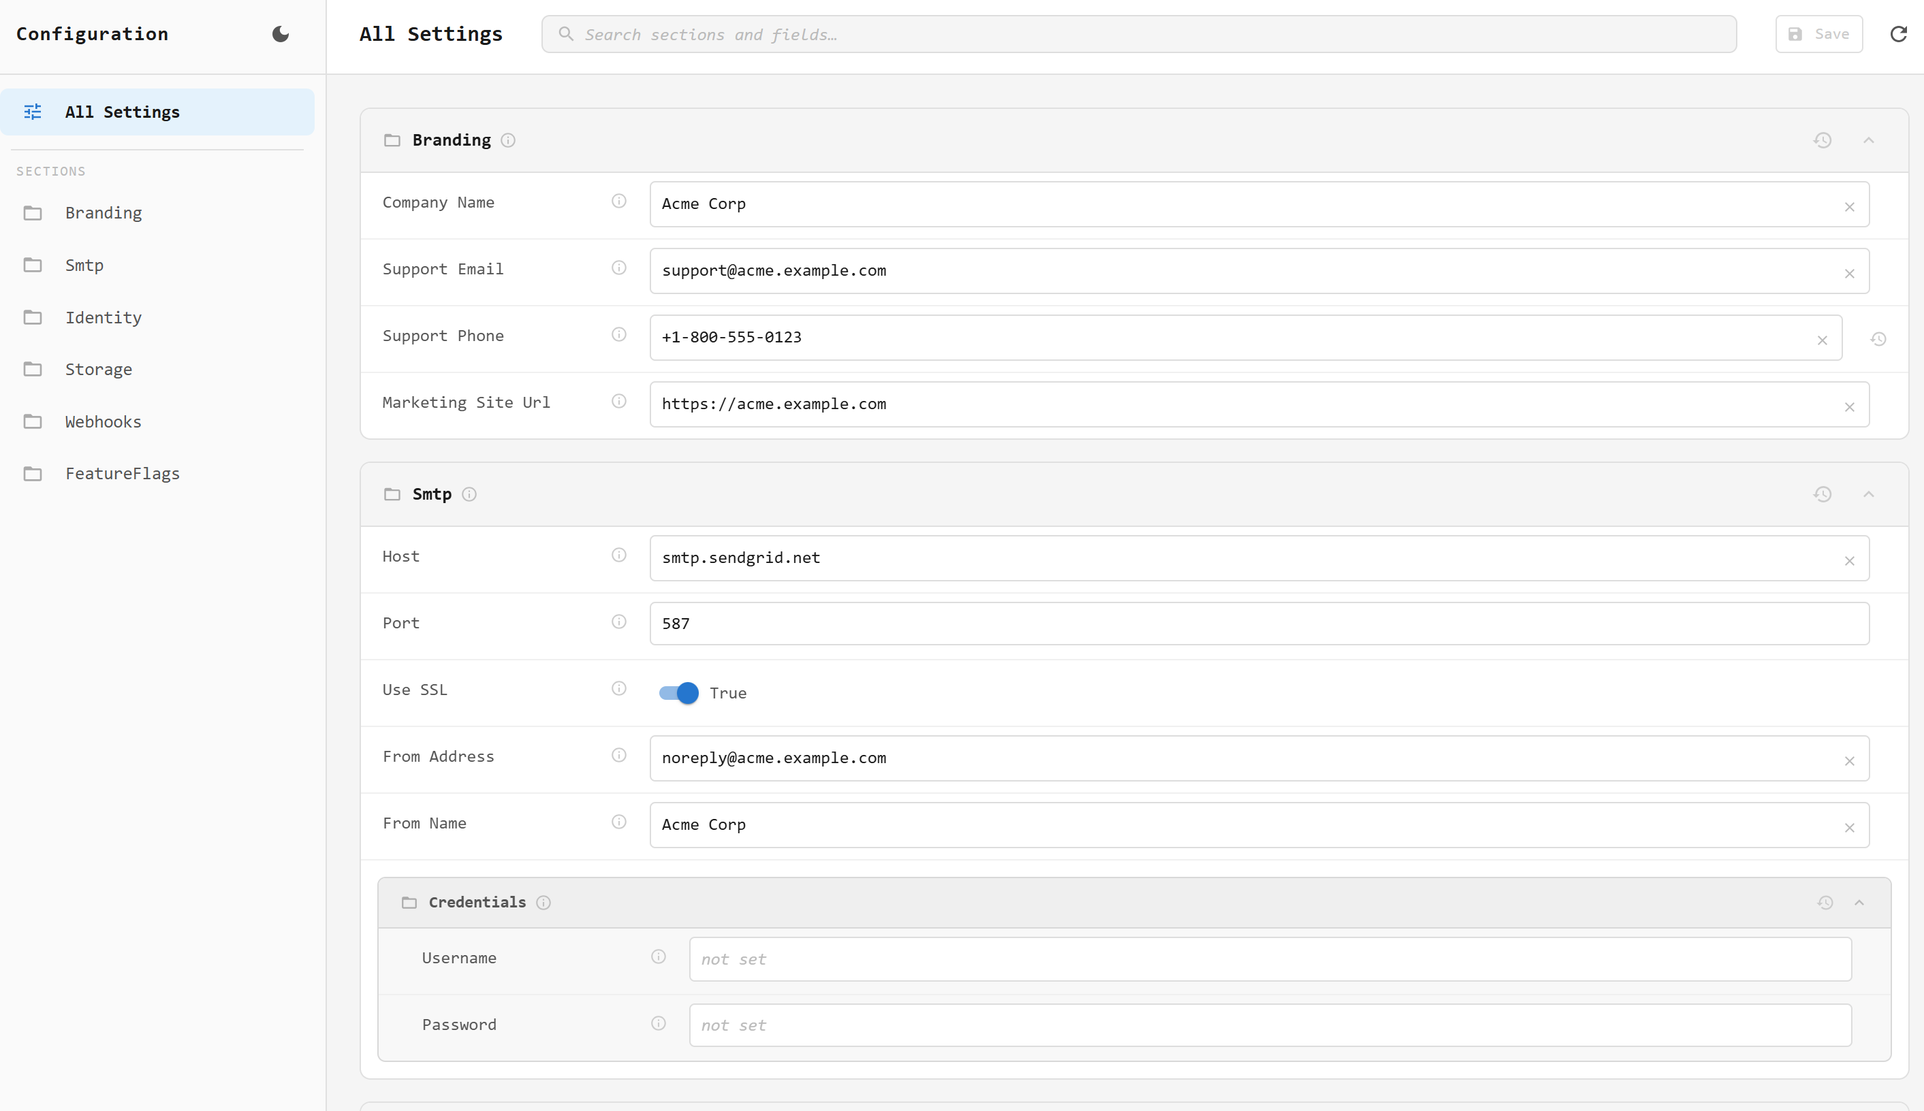
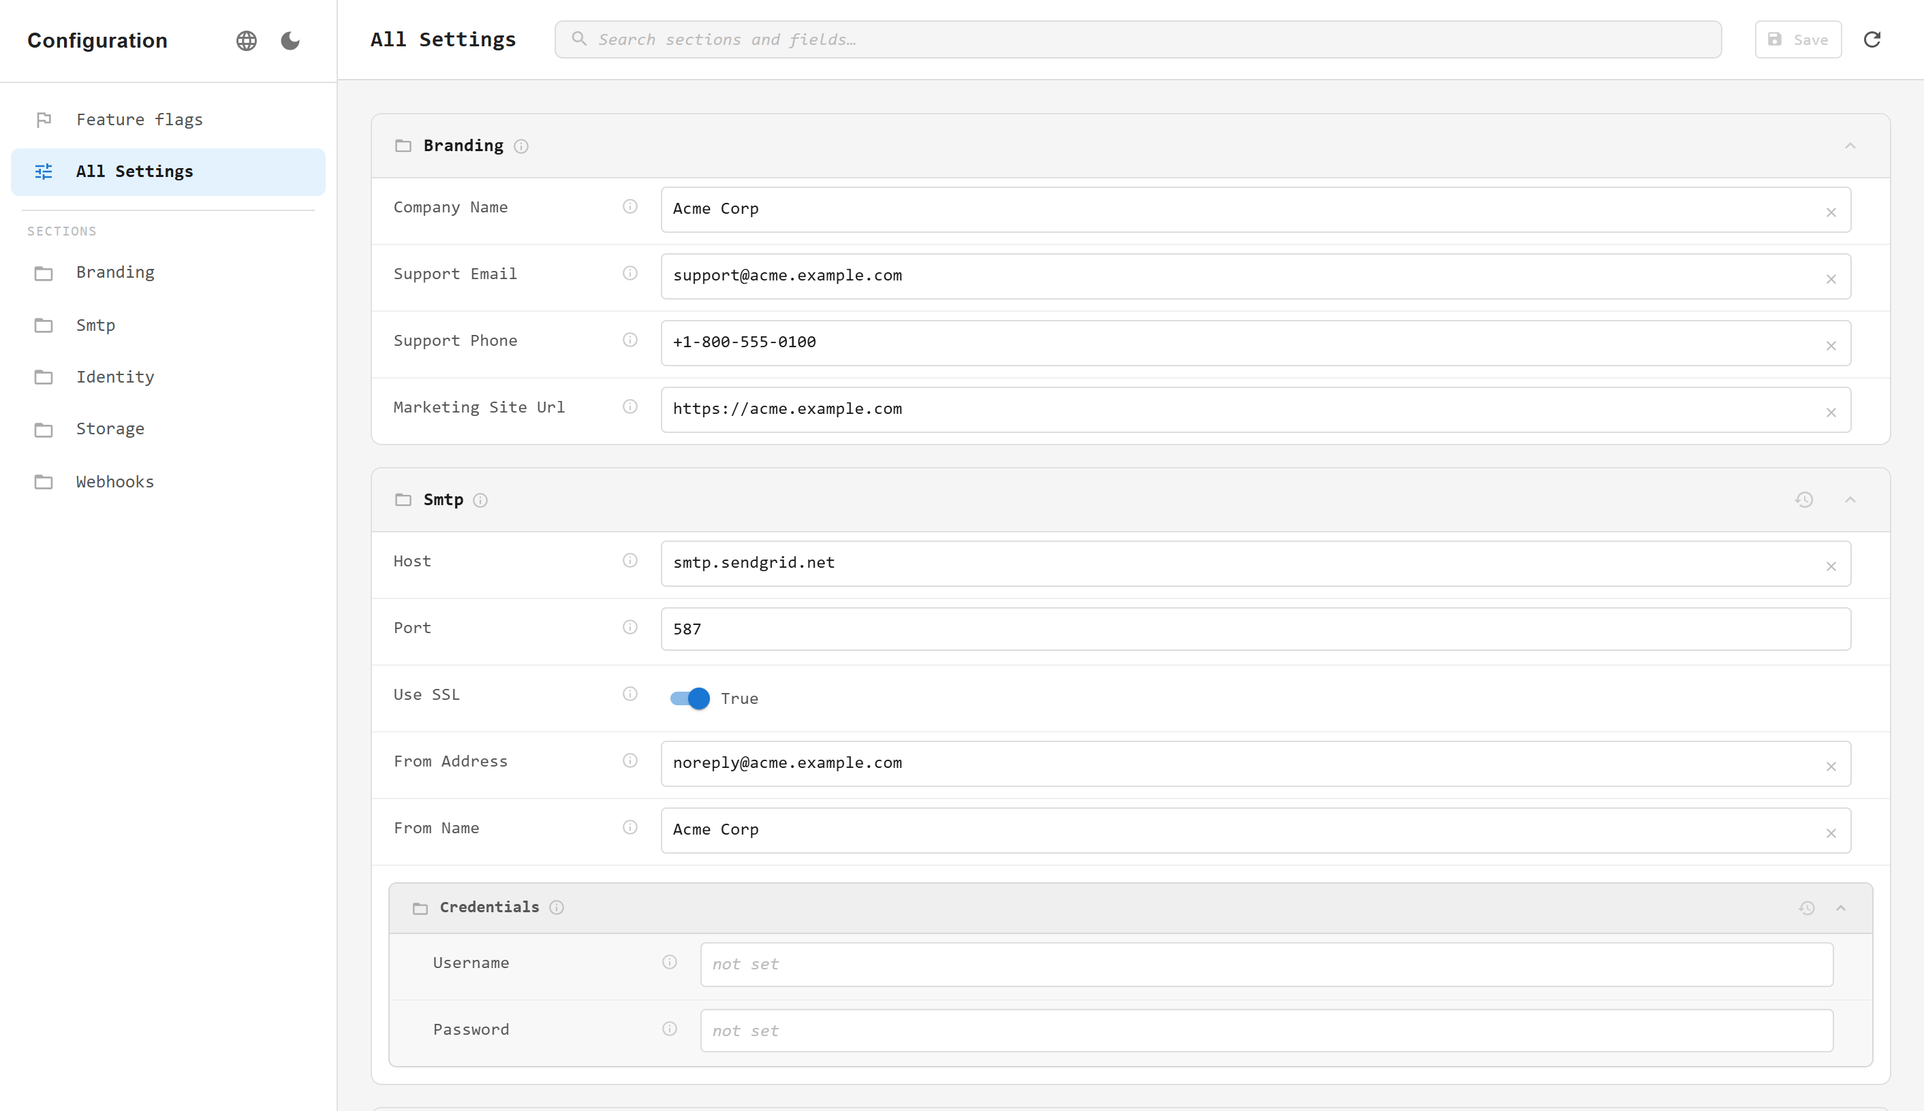
docs: feature flags in the README and new screenshots
The README describes the feature flags package and the screenshots show the editor in Way.Shell,
with the Feature flags view. docs/feature-flags.md is the plan of the work.

diff --git a/docs/feature-flags.md b/docs/feature-flags.md
@@ -1,0 +1,246 @@
+# Flagi funkcji w ConfigWay: plan
+
+Stan: F0-F2 i F3 (bez wydania) zrobione (2026-10-21); zostało wydanie 2.1.0. Źródło pomysłu: `IDEAS.md`, pkt 2.
+
+## 1. Cel i zakres
+
+Nowa, opcjonalna paczka **`Kododo.ConfigWay.FeatureManagement`**. Pozwala zarządzać flagami
+`Microsoft.FeatureManagement` z panelu ConfigWay bez redeployu. Flagi dalej czyta standardowy
+`IFeatureManager` / `IVariantFeatureManager` z `IConfiguration`, więc kod aplikacji
+(`[FeatureGate]`, `IsEnabledAsync`, tag helpery) się nie zmienia.
+
+Zależność od `Microsoft.FeatureManagement` (4.8.0: net8.0 + net10.0; net9.0 korzysta z buildu net8.0)
+ma tylko nowa paczka. Rdzeń ConfigWay, UI i magazyny jej nie ciągną.
+
+**v1:**
+- lista flag ze wszystkich źródeł (appsettings, env, ConfigWay) z oznaczeniem źródła i nadpisania;
+- szybkie włącz/wyłącz z listy;
+- edytor flagi: `enabled`, `requirement_type` (Any/All), filtry `Microsoft.Percentage`,
+  `Microsoft.TimeWindow` (bez cykliczności), `Microsoft.Targeting` (użytkownicy, grupy z %, domyślny %,
+  wykluczenia) oraz dowolny filtr własny jako nazwa + parametry JSON;
+- dodawanie nowych flag i reset nadpisania, czyli powrót do definicji z appsettings albo usunięcie flagi,
+  która istnieje tylko w ConfigWay;
+- tester "czy flaga jest włączona dla użytkownika X z grupami Y" (ewaluacja po stronie serwera);
+- walidacja po stronie serwera; i18n en/pl; demo; testy.
+
+**Później (v1.x):** warianty i alokacja (`variants`, `allocation`, `status_override`), cykliczność
+TimeWindow, flaga `telemetry`, narzędzia MCP. Odświeżanie między replikami jest w v1 (sekcja 7).
+
+**Poza zakresem:** historia zmian i audyt (ConfigWay ich nie ma; to osobny temat dla całego ConfigWay),
+edycja flag w starym schemacie .NET (`FeatureManagement`). Te flagi są tylko wyświetlane, a nadpisanie
+zapisuje się w schemacie Microsoft.
+
+## 2. Stan wyjściowy ConfigWay (istotne fakty)
+
+- Magazyn to płaskie `key -> value` (`IStore`: Get/Set/Delete, tabele `configway.settings`
+  w PostgreSQL i SQL Server, `InMemoryStore` domyślnie).
+- `ConfigurationProvider.IsAllowedKey` przepuszcza **tylko klucze zarejestrowanych typów `IOptions<T>`**,
+  więc wpisy `feature_management:*` byłyby odrzucone.
+- `ConfigurationBuilder` ma publiczne tylko `Services`, `Store` i `AddOptions<T>`. Brak punktów
+  rozszerzeń dla źródeł konfiguracji i dodatkowych endpointów.
+- Przeładowanie: `IConfigurationEditor.ReloadAllAsync` po zapisie, tylko w bieżącej instancji.
+- UI: jeden `WayModule("config")`, menu w `SideMenu.tsx`, API Reiho `POST /config/api/{Request}`.
+- Way.Shell nie pozwala innej paczce dołożyć widoku do cudzego modułu (jeden `App` na Way).
+- ConfigWay nie ma MCP ani testów SPA.
+
+## 3. Model zapisu
+
+**Jedna flaga = jeden wiersz** w istniejącym `IStore`:
+
+```
+key:   feature_management:flags/<id>     (prefiks niekolidujący z kluczami IOptions)
+value: JSON flagi w schemacie Microsoft  {"id":"Beta","enabled":true,"conditions":{...}}
+```
+
+Dlaczego tak, a nie spłaszczone `feature_management:feature_flags:0:...`:
+- indeksy tablicy rozjeżdżają się przy dodawaniu i usuwaniu, a scalanie po indeksie z appsettings
+  nadpisywałoby niewłaściwe flagi;
+- zapis jednej flagi jest atomowy (jeden upsert) i nie wymaga zmian schematu baz;
+- reset flagi to usunięcie jednego klucza.
+
+Nie trzeba zmieniać tabel ani `IStore`.
+
+**Źródło konfiguracji paczki:** `FeatureFlagsProvider : StoreConfigurationProvider` wybiera z magazynu klucze
+z prefiksem `feature_management:flags/`, parsuje JSON i wystawia go spłaszczony jako
+`feature_management:feature_flags:{100000+i}:...`. Główny provider ConfigWay dalej ignoruje te klucze, bo nie
+należą do żadnego typu opcji.
+
+**Scalanie z appsettings po `id`:** paczka włącza
+`ConfigurationFeatureDefinitionProviderOptions.CustomConfigurationMergingEnabled = true`
+(od 4.3.0). Wtedy definicja z ConfigWay (źródło dodane później) wygrywa w całości z flagą o tym samym
+`id` z appsettings, niezależnie od indeksów.
+
+**Sprawdzone w F1 (źródła `ConfigurationFeatureDefinitionProvider` 4.8.0 + testy):**
+- Przy scalaniu każdy provider (`ConfigurationProvider` albo `ChainedConfigurationProvider`) jest osobnym
+  źródłem, a wygrywa ten o najwyższym priorytecie, czyli dodany później. W obrębie źródła wpis w schemacie
+  Microsoft wygrywa ze starym schematem, więc nadpisanie flagi ze starego schematu działa.
+- Jeśli aplikacja ma providera, który nie dziedziczy z `ConfigurationProvider`, biblioteka wraca do
+  zwykłego scalania po indeksach. Dlatego flagi z ConfigWay zaczynają się od indeksu **100000**: są wtedy
+  po flagach aplikacji, a biblioteka bierze ostatnią definicję o danym `id`. Mutacja w testach: każde
+  z dwóch zabezpieczeń osobno wystarcza, bez obu polegają 4 testy nadpisań.
+- Id porównywane bez wielkości liter; brak `enabled` = wyłączona.
+
+## 4. Zmiany w rdzeniu ConfigWay (F0), zrobione 2026-10-20
+
+Publiczne punkty rozszerzeń, bez zmian zachowania dla obecnych użytkowników:
+
+1. **`StoreConfigurationProvider`** (Kododo.ConfigWay): abstrakcyjna klasa bazowa providera, który
+   wystawia wartości z magazynu pod własnymi kluczami (`Select(IReadOnlyList<Setting>)`). Rejestracja
+   przez `ConfigurationBuilder.AddProvider(provider)`. Główny provider ConfigWay też z niej dziedziczy
+   i czyta magazyn **raz** dla wszystkich: przy `Load`, po zapisie (`IConfigurationEditor.ReloadAllAsync`)
+   i przy odpytywaniu. Providery rozszerzeń są dodawane do `IConfiguration` zaraz po głównym.
+   `GetConfigurationHandler` wyłącza wszystkie `StoreConfigurationProvider` z wartości domyślnych.
+2. **`AddUiExtension(id, assembly)`** (Kododo.ConfigWay.UI): rejestruje handlery Reiho z assembly
+   i rozszerzenie w DI. `UseConfigWay` mapuje requesty rozszerzeń na tę samą grupę `/api`, więc
+   dziedziczą autoryzację grupy. Użytkownik nie wywołuje nic dodatkowego.
+3. **`GetCapabilities`** -> `{ extensions: string[] }`. SPA na tej podstawie pokaże "Flagi" (F2).
+4. **`ReloadInterval`** (sekcja 7).
+5. Way.Shell podbity do 2.1.1 (NuGet). Paczka npm zostaje na 2.0.0 do F2.
+
+Testy: 192 w ConfigWay.Tests (net8/9/10), po 24 w PostgreSQL i SQL Server (w tym test dwóch replik).
+
+## 5. API publiczne paczki
+
+```csharp
+builder.AddConfigWay(x =>
+{
+    x.UsePostgreSql(cs);
+    x.AddOptions<SmtpOptions>();
+    x.AddUiEditor();
+    x.AddFeatureFlags();            // źródło + handlery + rozszerzenie UI
+});
+
+builder.Services.AddFeatureManagement().WithTargeting<MyTargetingContextAccessor>();
+
+app.UseConfigWay().RequireAuthorization("admin"); // bez zmian; flagi pod /config
+```
+
+`AddFeatureFlags` **nie** wywołuje `AddFeatureManagement`. Aplikacja sama decyduje o targetingu
+i własnych filtrach. Paczka tylko konfiguruje opcje scalania i rejestruje swoje elementy. Opcjonalnie
+`AddFeatureFlags(o => o.KnownFilters...)` podpowiada nazwy własnych filtrów w UI.
+
+## 6. Backend (Reiho, w paczce FeatureManagement), zrobione 2026-10-21
+
+Requesty (pod `/config/api`, z autoryzacją grupy ConfigWay):
+
+| Request | Działanie |
+|---|---|
+| `GetFeatureFlags` -> `{ isFeatureManagementRegistered, filters[], flags[] }` | Pozycja: `id`, `flag` (w użyciu), `configured` (z konfiguracji aplikacji albo `null`), `hasOverride`, `isDotnetSchema`, `hasVariants`, `error` (nieczytelne nadpisanie). `filters` to aliasy zarejestrowanych `IFeatureFilterMetadata` (podpowiedzi w UI). Flagi bazowe czyta `FlagCatalog` z każdego providera osobno (bez `Load`), tak jak scala je biblioteka. |
+| `SaveFeatureFlag(flag, isNew)` | Walidacja; `isNew` + istniejące id -> 400 `flag.id`; zmiana nieistniejącej -> 404. Zachowuje id istniejącej flagi (wielkość liter) i jej nieedytowane pola. Upsert jednego klucza + przeładowanie. |
+| `ResetFeatureFlag(id)` | Usuwa nadpisanie (404, gdy go nie ma). Flaga z konfiguracji wraca, flaga tylko z ConfigWay znika. |
+| `EvaluateFeatureFlag(id, userId?, groups?)` -> `{ enabled, variant }` | `IsEnabledAsync(id, TargetingContext)` + `GetVariantAsync`; brak `AddFeatureManagement` -> 409, nieznana flaga -> 404. Informacji "który filtr zdecydował" biblioteka nie udostępnia, więc jej nie ma. |
+
+Model edycji (`FeatureFlag`): `id`, `enabled`, `requirementType` (Any/All), `filters[]` (`name`,
+`parameters` jako JSON), `description`.
+
+**Walidacja** (`IValidatableObject`; Reiho zwraca ProblemDetails z kluczami typu
+`flag.filters[1].parameters`):
+- `id`: niepuste, bez spacji na brzegach, bez `:`, najwyżej 200 znaków;
+- Percentage: `Value` w zakresie 0-100;
+- TimeWindow: `Start` i/lub `End` jako data, `Start < End`; zapis w RFC 1123 (UTC); `Recurrence`
+  zachowywane bez sprawdzania (edycja w F4);
+- Targeting: `Audience` wymagane, niepuste nazwy, grupy bez duplikatów, procenty 0-100;
+- inne filtry: dowolne parametry, ale **nazwa musi należeć do zarejestrowanego filtra**, gdy aplikacja ma
+  `AddFeatureManagement` (`RegisteredFilters`, dopasowanie jak w bibliotece: pełny alias albo ostatni segment,
+  `AlwaysOn`/`On` zawsze). Powód: dla nieznanego filtra biblioteka rzuca `FeatureManagementException` przy
+  każdym sprawdzeniu flagi; sprawdzone na demo (strona 500). Błąd: `flag.filters[i].name`.
+
+**Zapis:** JSON w schemacie Microsoft, parametry wbudowanych filtrów w jednym kształcie (liczby jako liczby).
+Nieedytowane pola (`variants`, `allocation`, `telemetry`, ...) są **zachowywane**, także przy pierwszym
+nadpisaniu flagi z appsettings. Warianty flag ze starego schematu nie są przenoszone (`HasDroppedVariants`
+w `BaseFlag`; UI może to pokazać).
+
+**Testy:** `ConfigWay.FeatureManagement.Tests` (82 × net8/9/10), w tym integracja z prawdziwym
+`IVariantFeatureManager`: nadpisanie, reset, nowa flaga, stary schemat, Percentage, TimeWindow, Targeting
+przez `EvaluateFeatureFlag`, warianty zachowane po zapisie, wielkość liter id, nieczytelne nadpisanie.
+PostgreSQL i SQL Server: trwałość po restarcie i przekazanie zmiany do drugiej repliki (`ReloadInterval`).
+CI (`ci.yml`) uruchamia nowe testy, a `publish-nuget.yml` pakuje nową paczkę.
+
+## 7. Wiele instancji, w v1 (decyzja 2026-10-20), zrobione w F0
+
+Bez tej opcji zmiana działa tylko w instancji, która ją zapisała. Przy flagach to szczególnie boli,
+bo wyłącznik awaryjny musi zadziałać wszędzie. Opcja `x.ReloadInterval = TimeSpan.FromSeconds(30)`
+(domyślnie `null`, czyli wyłączona) uruchamia `ReloadService` (`BackgroundService` + `PeriodicTimer`).
+Ten co interwał czyta magazyn i przeładowuje wszystkie providery tylko wtedy, gdy zmienił się jakikolwiek
+wpis (porównanie z ostatnio wczytanym stanem). Błąd magazynu jest logowany jako ostrzeżenie, a kolejny
+tick próbuje ponownie. Bez zmian `IStore`. Tabele są małe, więc koszt jest pomijalny; ewentualnie
+później tani znacznik wersji w magazynach.
+
+## 8. UI (w ConfigWay.UI SPA), zrobione 2026-10-21
+
+Widok flag mieszka w **istniejącym SPA ConfigWay** i pojawia się, gdy `GetCapabilities` zwraca `flags`
+(`FlagsProvider` pobiera flagi tylko wtedy). Uzasadnienie: Way.Shell nie ma slotów na widoki z innych
+paczek, a osobny Way byłby w menu tylko w panelu `/admin`. ConfigWay.UI nie ma zależności NuGet od paczki
+flag; `dist/way.js` urósł do ~96 kB (24 kB gzip). Way.Shell npm podbity do ^2.1.1.
+
+- **Trasy:** `flags` (lista), `flags/new`, `flag/:flagId`. Dopóki `GetCapabilities` nie odpowie, nieznana
+  trasa nie przekierowuje do korzenia (głęboki link do flagi działa).
+- **Lista** (`FlagsPage`): przełącznik zapisuje od razu; snackbar z "Cofnij" (gdy flaga nie miała
+  nadpisania, cofnięcie robi reset, a nie zapis kopii). Opis warunków ("1 user · 1 group", "50% of checks",
+  "from ... until ..."), znaczniki: nadpisana / tylko ConfigWay / schemat .NET / warianty / nieczytelna.
+  Wyszukiwarka po id i opisie, ostrzeżenie, gdy aplikacja nie wywołała `AddFeatureManagement`.
+- **Edytor** (`FlagPage`): id (tylko dla nowej), opis, `enabled`, źródło flagi; "Przywróć z konfiguracji"
+  albo "Usuń flagę" z oknem potwierdzenia. Warunki: menu "Dodaj warunek", Any/All przy 2+ warunkach,
+  karty filtrów z błędami API przypisanymi po `flag.filters[i]`:
+  - Percentage: suwak + pole; podpowiedź, że to losowanie na sprawdzenie (nie na użytkownika);
+  - TimeWindow: `datetime-local` w strefie przeglądarki, zapis w UTC, stan "aktywne / jeszcze nie / zakończone";
+    `Recurrence` zachowane z informacją;
+  - Targeting: chipy użytkowników i wykluczeń, wiersze grup z %, % pozostałych;
+  - własny filtr: nazwa z podpowiedziami zarejestrowanych filtrów, ostrzeżenie dla niezarejestrowanej
+    (sprawdzenie flagi rzuciłoby wyjątek), parametry JSON z blokadą zapisu przy błędnym JSON.
+- **Tester** (`FlagCheck`): użytkownik + grupy -> włączona/wyłączona i wariant; sprawdza zapisany stan.
+- **i18n:** en/pl w `translations.ts` (funkcje dla tekstów z liczbami).
+- `PageHeader` dostał `actions` i `searchPlaceholder`.
+
+**Demo:** klasa opcji `FeatureFlags` zastąpiona prawdziwymi flagami w `appsettings.json` (BetaBanner,
+NewCheckout z targetingiem, HolidayTheme z oknem czasowym, MaintenanceMode, SearchEngine z wariantami,
+ReadOnlyMode w schemacie .NET). Strona główna pokazuje stan flag dla gościa wybranego linkiem
+(`?user=alice|bob|mallory`).
+
+**e2e szczegółowe** (`ConfigWay.Demo.Web/e2e/flags.mjs`, 53 scenariusze): linki bezpośrednie, wyszukiwanie,
+okno czasowe tam i z powrotem przez strefę (wartości w bazie w UTC), edycja targetowania (chipy, grupy,
+wykluczenia) z testerem i stroną demo, Any/All na dwóch warunkach, własny filtr (zły JSON, niezarejestrowana
+nazwa), id `Team.Billing/V2`, duplikat id, `:` w id, Odrzuć, stary schemat .NET, warianty zachowane po zapisie,
+zapis ustawień nie gubi nadpisań flag, telefon (bez poziomego przewijania), język polski. 53/53 w Chrome,
+Edge, Firefox i WebKit. Bezpieczeństwo w testach integracyjnych: 403 bez decyzji, 401 bez zalogowania
+(wszystkie 4 requesty, flaga nietknięta). Tester czyści wynik po zmianie użytkownika lub grup.
+
+**e2e** (`ConfigWay.Demo.Web/e2e/check.mjs`): +18 scenariuszy flag (menu, lista, przełącznik i cofnięcie,
+targeting i tester, nadpisanie i reset, błąd walidacji w karcie warunku, nowa flaga i usunięcie). Skrypt
+najpierw resetuje nadpisania, których dotyka. Wynik: 32/32 w Chrome i WebKit. `SHOTS=<dir>` zapisuje zrzuty.
+
+## 9. Testy
+
+- `ConfigWay.FeatureManagement.Tests` (net8/9/10):
+  - parser i spłaszczanie JSON ↔ klucze;
+  - walidacja;
+  - handlery;
+  - **integracja z prawdziwym `IFeatureManager`**: flaga z appsettings, nadpisanie z ConfigWay, reset,
+    Percentage, TimeWindow, Targeting przez `EvaluateFeatureFlag`; zachowanie nieznanych pól.
+- PostgreSQL/SQL Server: po jednym teście API na Testcontainers (zapis, odczyt, przeładowanie).
+- Testy rdzenia po F0: brak regresji (istniejące 170+ testów) i nowe testy punktów rozszerzeń.
+- e2e: nowe scenariusze w `ConfigWay.Demo.Web/e2e/check.mjs` (lista, przełącznik, edytor, reset, tester).
+
+## 10. Demo i dokumentacja
+
+- Demo: klasę `FeatureFlags` (4 boole jako zastępstwo flag) zastępujemy prawdziwymi flagami
+  w `appsettings.json` (np. `NewCheckout` z Percentage, `BetaBanner` z Targeting,
+  `MaintenanceMode`, `HolidayTheme` z TimeWindow). `HomeView` pokazuje ich stan dla bieżącego
+  (wybieralnego) użytkownika.
+- README: tabela paczek, sekcja "Feature flags", `.nuget/README.md` nowej paczki,
+  aktualizacja Limitations.
+- Zrzut ekranu widoku flag w `docs/screenshots`.
+
+## 11. Fazy
+
+| Faza | Zakres | Efekt |
+|---|---|---|
+| F0 ✅ | Punkty rozszerzeń w rdzeniu i UI (sekcja 4), `ReloadInterval` + testy | Bez zmian zachowania |
+| F1 ✅ | Backend paczki: źródło, scalanie, handlery, walidacja, testy integracyjne z `IFeatureManager` | Flagi edytowalne przez API |
+| F2 ✅ | UI: lista, przełącznik, edytor (Percentage/TimeWindow/Targeting/własny), tester, i18n | Pełny v1 w panelu |
+| F3 ✅ (bez wydania) | Demo, README, e2e, zrzuty, `publish-nuget.yml` (nowa paczka) | Gotowe do wydania **ConfigWay 2.1.0** |
+| F4 (v1.x) | Warianty i alokacja, cykliczność TimeWindow | 2.2.0 |
+| później | MCP (lista, przełącz, sprawdź flagę), historia zmian | - |
+
+Wersja: wszystkie paczki ConfigWay wydawane razem z tagu, więc nowa paczka startuje od 2.1.0.
+Way.Shell bez zmian (kontrakt 2).

diff --git a/README.md b/README.md
@@ -3,7 +3,7 @@
 [![CI](https://github.com/kododo-dev/ConfigWay/actions/workflows/ci.yml/badge.svg)](https://github.com/kododo-dev/ConfigWay/actions/workflows/ci.yml)
 [![Demo](https://img.shields.io/badge/demo-live-brightgreen)](https://kododo.dev/configway/demo)
 
-Runtime configuration editor for ASP.NET Core. View and modify `IOptions<T>` values at runtime through a built-in web UI without restarting the application.
+Runtime configuration editor for ASP.NET Core. View and modify `IOptions<T>` values at runtime through a built-in web UI without restarting the application, and manage [feature flags](#feature-flags) the same way.
 
 A live demo is available at [kododo.dev/configway/demo](https://kododo.dev/configway/demo).
 
@@ -15,6 +15,10 @@ A live demo is available at [kododo.dev/configway/demo](https://kododo.dev/confi
 
 ![Array editor](docs/screenshots/03-array-editor.png)
 
+![Feature flags](docs/screenshots/04-feature-flags.png)
+
+![Flag editor](docs/screenshots/05-flag-editor.png)
+
 ## Packages
 
 | Package | NuGet | Description |
@@ -24,6 +28,7 @@ A live demo is available at [kododo.dev/configway/demo](https://kododo.dev/confi
 | `Kododo.ConfigWay.UI` | [![NuGet](https://img.shields.io/nuget/v/Kododo.ConfigWay.UI)](https://www.nuget.org/packages/Kododo.ConfigWay.UI) | Embedded web UI |
 | `Kododo.ConfigWay.PostgreSQL` | [![NuGet](https://img.shields.io/nuget/v/Kododo.ConfigWay.PostgreSQL)](https://www.nuget.org/packages/Kododo.ConfigWay.PostgreSQL) | PostgreSQL persistence store |
 | `Kododo.ConfigWay.SqlServer` | [![NuGet](https://img.shields.io/nuget/v/Kododo.ConfigWay.SqlServer)](https://www.nuget.org/packages/Kododo.ConfigWay.SqlServer) | SQL Server persistence store |
+| `Kododo.ConfigWay.FeatureManagement` | [![NuGet](https://img.shields.io/nuget/v/Kododo.ConfigWay.FeatureManagement)](https://www.nuget.org/packages/Kododo.ConfigWay.FeatureManagement) | Feature flags of Microsoft.FeatureManagement in the editor |
 
 ## Quick start
 
@@ -193,6 +198,44 @@ builder.Services.AddSingleton<IValidateOptions<EmailOptions>, EmailOptionsValida
 ```
 
 Errors are shown in the UI and saving is blocked until they are resolved.
+
+## Feature flags
+
+`Kododo.ConfigWay.FeatureManagement` adds a Feature flags view to the editor. You can turn [Microsoft.FeatureManagement](https://learn.microsoft.com/azure/azure-app-configuration/feature-management-dotnet-reference) flags on and off, roll them out to users and groups, or limit them to a time window without redeploying. Your code keeps using `IFeatureManager`, `[FeatureGate]` and the other feature management APIs.
+
+```bash
+dotnet add package Kododo.ConfigWay.FeatureManagement
+```
+
+```csharp
+builder.AddConfigWay(x =>
+{
+    x.UsePostgreSql(connectionString);
+    x.AddUiEditor();
+    x.AddFeatureFlags();
+});
+
+builder.Services.AddFeatureManagement();
+```
+
+The view lists the flags from your configuration (the `feature_management` section of appsettings, environment variables and so on), including flags in the older `FeatureManagement` schema. You can also add flags that exist only in ConfigWay.
+
+A flag saved in the editor is stored by ConfigWay and replaces the flag with the same id from your configuration. Resetting it brings the configured flag back. A flag that exists only in ConfigWay is deleted on reset.
+
+| Filter | Editor |
+|---|---|
+| `Microsoft.Percentage` | Slider |
+| `Microsoft.TimeWindow` | Start and end in your time zone, stored in UTC |
+| `Microsoft.Targeting` | Users, groups with a percentage, default percentage, exclusions |
+| Other filters | JSON parameters |
+
+A filter that your application has not registered can't be saved, because checking the flag would throw.
+
+Variants, allocation, telemetry and recurring time windows are kept when you save a flag, but you can't edit them yet.
+
+To see how a flag evaluates for a user, enter the user and groups under "Check for a user". The check uses your application's feature manager.
+
+The flag endpoints are part of the editor's API (`{path}/api`) and use the same authorization. If the app runs as several replicas, set [`ReloadInterval`](#several-replicas) so that a changed flag reaches all of them.
 
 ## Security
 
